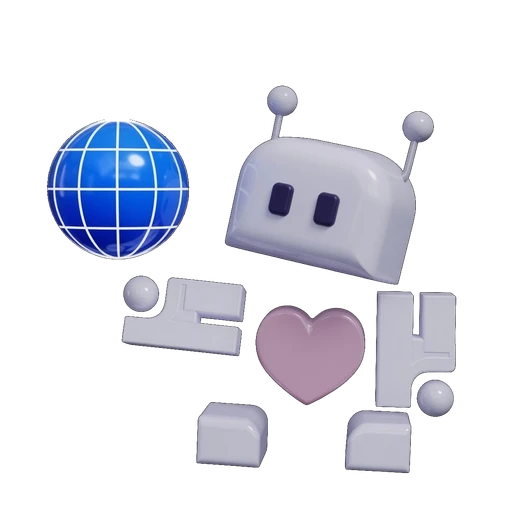
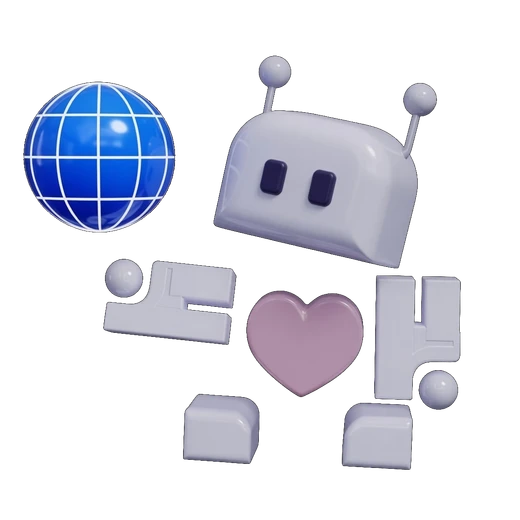
fix(open-web-vectors): keep the full globe sphere
The previous shift cropped the highlight off the top of the orb.
Re-extract the whole sphere, place it left and down, and put the
robot back at its original vertical position.

Changed region(s): [[0.0308, 0.0923, 0.8923, 0.9231], [0.3385, 0.7385, 0.5231, 0.9231], [0.4923, 0.6769, 0.5231, 0.7077]]

diff --git a/site/templates/open-web-vectors.html b/site/templates/open-web-vectors.html
@@ -64,8 +64,8 @@
         </g>
       </svg>
       <div class="owv-orbit-scrim"></div>
-      <img class="owv-orbit-robot" src="/images/robot-orbit-520.webp?v=orb3"
-           srcset="/images/robot-orbit-320.webp?v=orb3 320w, /images/robot-orbit-520.webp?v=orb3 520w"
+      <img class="owv-orbit-robot" src="/images/robot-orbit-520.webp?v=orb4"
+           srcset="/images/robot-orbit-320.webp?v=orb4 320w, /images/robot-orbit-520.webp?v=orb4 520w"
            sizes="200px" width="520" height="520" alt="" loading="lazy" decoding="async">
     </div>
     <div class="container">
@@ -483,7 +483,7 @@
        the right). Centering it in the orbit shoved the heart and the right
        hand off the hero's overflow:hidden right edge. */
     left: 47%;
-    top: 52%;
+    top: 50%;
     /* 34% -> 59.5%: 1.75x. The robot is the subject now that the satellites
        are gone, so it carries the composition rather than sitting inside it. */
     width: 59.5%;
